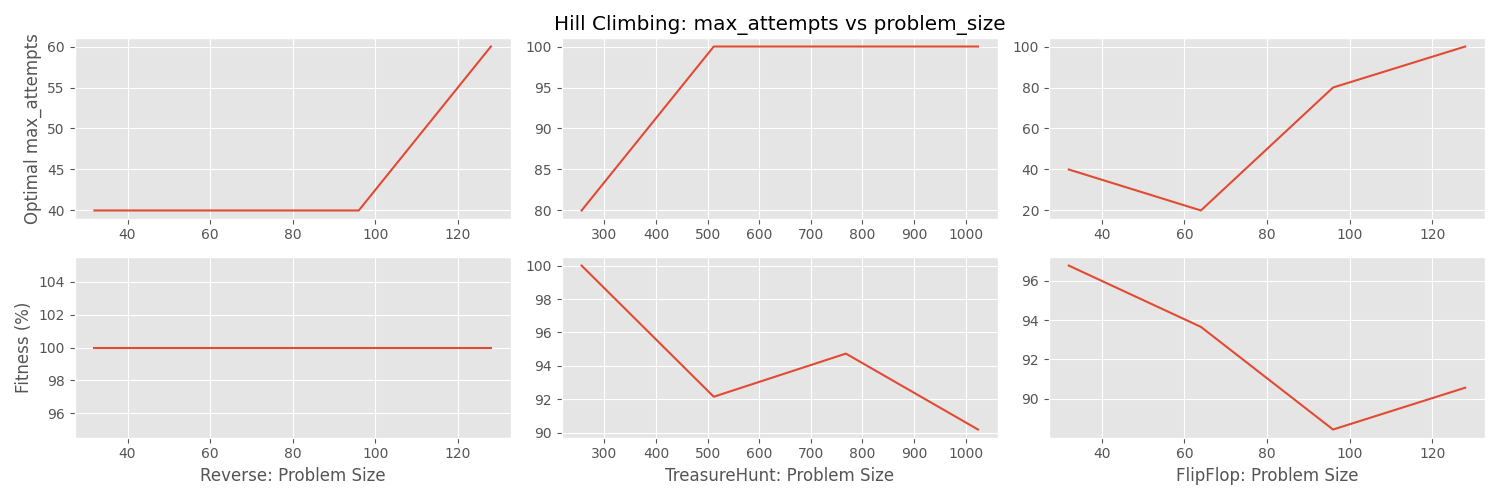
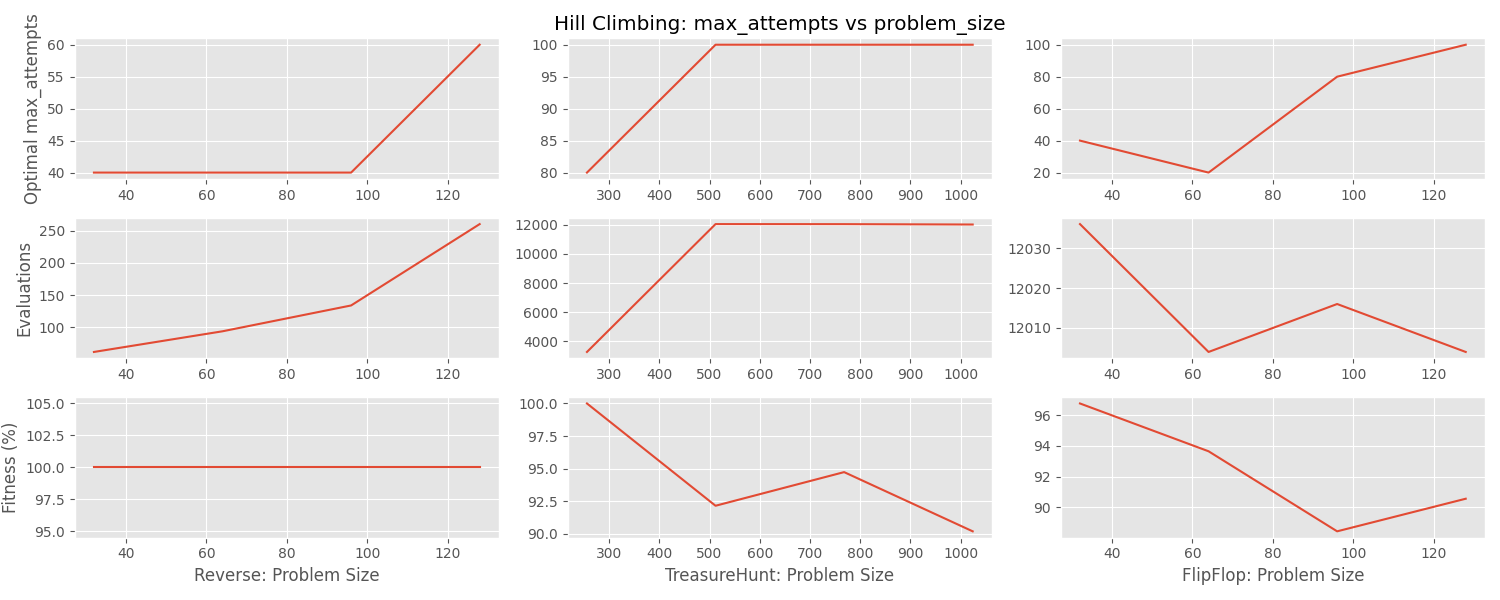
Update annealing readings

diff --git a/experiments.py b/experiments.py
@@ -31,17 +31,20 @@ def algo_by_params(algo_cls, kwargs, key, values):
     readings = {}
     for prob_cls in PROBLEM_SIZES:
         best_values = []
+        best_evals = []
         best_fitness = []
         for size in PROBLEM_SIZES[prob_cls]:
             prob = prob_cls(size)
             kwargs.update({"problem": prob})
-            f_best, _, value = vary_parameter(algo_cls, kwargs, key, values)
+            f_best, n_evals, value = vary_parameter(algo_cls, kwargs, key, values)
             best_values.append(value)
+            best_evals.append(n_evals)
             best_fitness.append(-f_best)
 
         readings[prob_cls.__name__] = (
             PROBLEM_SIZES[prob_cls],
             best_values,
+            best_evals,
             best_fitness,
         )
     return readings
@@ -51,14 +54,15 @@ def plot_all(readings):
     keys = ["Reverse", "TreasureHunt", "FlipFlop"]
     fig, ax = plt.subplots(
         ncols=3,
-        nrows=2,
-        figsize=(15, 5),
+        nrows=3,
+        figsize=(15, 6),
     )
     for i, k in enumerate(keys):
-        x, y1, y2 = readings[k]
+        x, y1, y2, y3 = readings[k]
         ax[0, i].plot(x, y1)
         ax[1, i].plot(x, y2)
-        ax[1, i].set_xlabel(f"{k}: Problem Size")
+        ax[2, i].plot(x, y3)
+        ax[2, i].set_xlabel(f"{k}: Problem Size")
     return fig, ax
 
 
@@ -72,7 +76,8 @@ def run_experiment(title, ylabel, key, *args, **kwargs):
 
     fig, ax = plot_all(readings)
     ax[0, 0].set_ylabel(ylabel)
-    ax[1, 0].set_ylabel("Fitness (%)")
+    ax[1, 0].set_ylabel("Evaluations")
+    ax[2, 0].set_ylabel("Fitness (%)")
     ax[0, 1].set_title(title)
     fig.tight_layout()
     fig.savefig(path + ".png")
@@ -106,7 +111,7 @@ if __name__ == "__main__":
         "Optimal temperature",
         "annealing_temperature_by_size",
         Annealing,
-        {"decay": 0.99, "min": 0.01, "max_attempts": 25},
+        {"decay": 0.99, "min": 0.01, "max_attempts": 30},
         "T",
         values=[0.25, 0.5, 1, 1.5, 2, 3, 4],
     )
